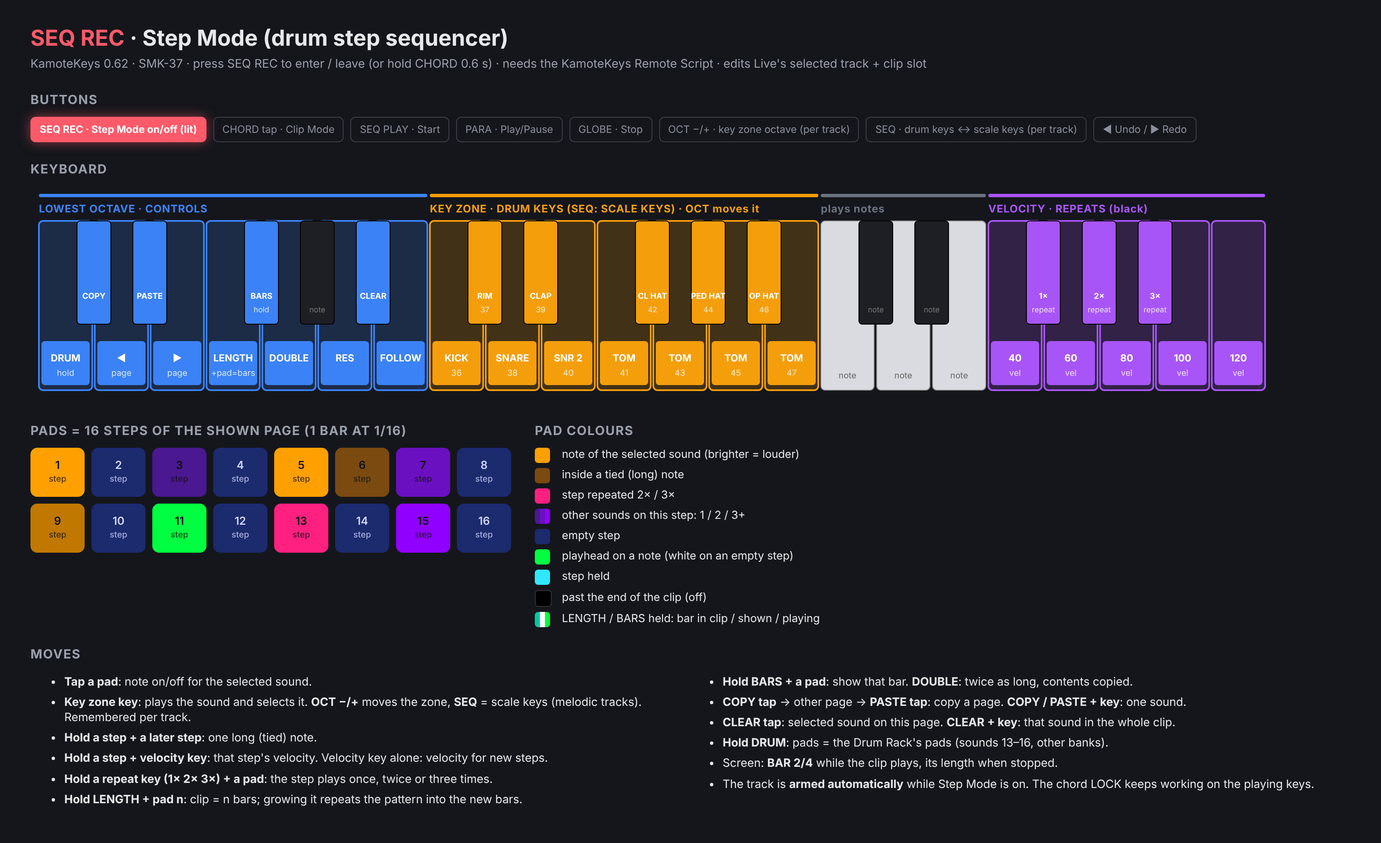
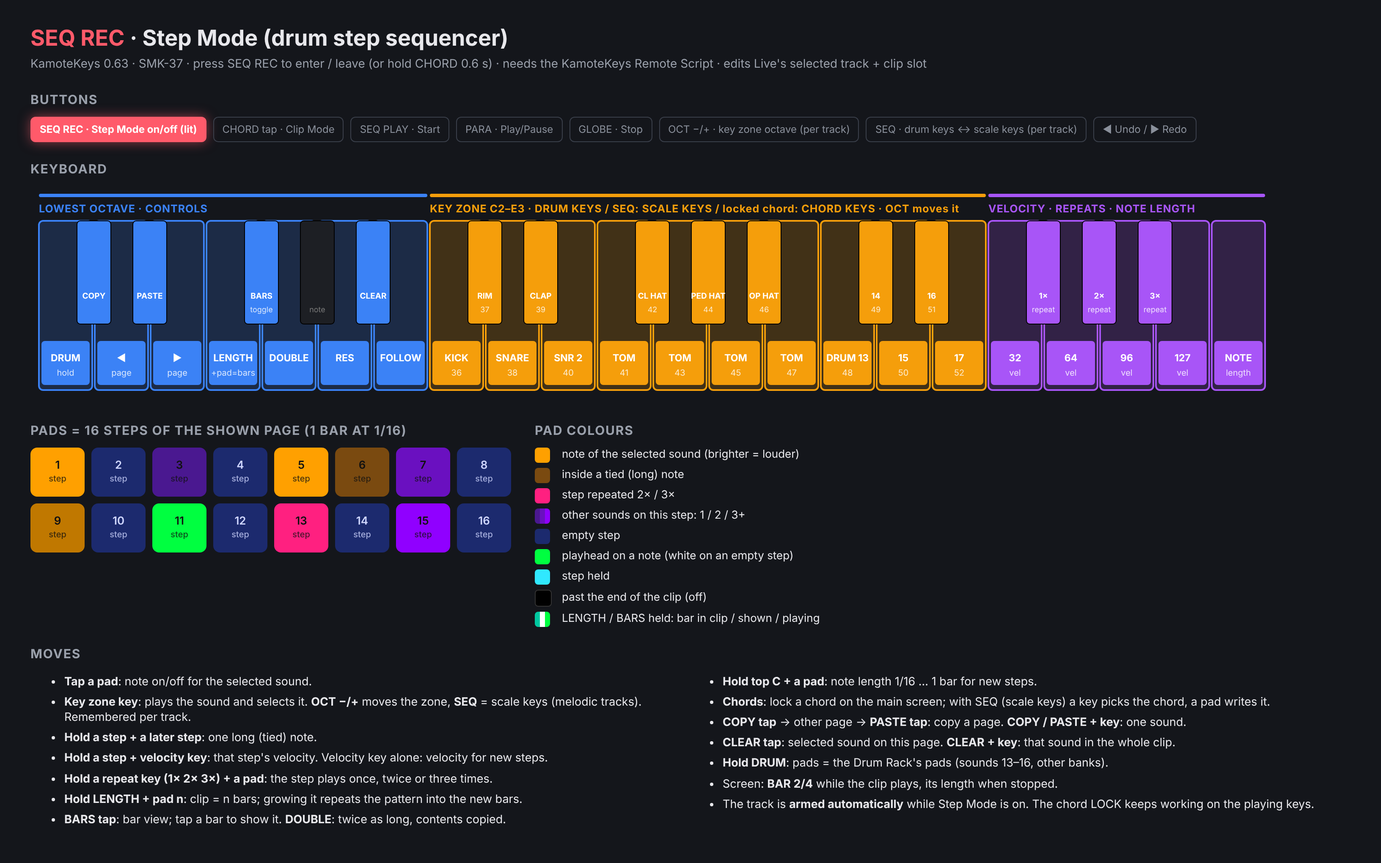
KamoteKeys 0.63: Step Mode chords from a locked chord, note length key, velocity 32/64/96/127, key zone C2-E3, BARS toggle
Claude-Session: https://claude.ai/code/session_014nKCDtX9z2HT4cnrjTFgfW

diff --git a/remote_script/KamoteKeys/StepSequencer.py b/remote_script/KamoteKeys/StepSequencer.py
@@ -35,8 +35,8 @@ PAD_NOTE = 36
 PADS = 16
 (F_DRUM, F_PAGE_PREV, F_PAGE_NEXT, F_LENGTH, F_DOUBLE, F_RESOLUTION, F_FOLLOW, F_COPY, F_CLEAR,
  F_VEL_1, F_VEL_2, F_VEL_3, F_VEL_4, F_VEL_5, F_VEL_6, F_VEL_DOWN, F_VEL_UP, F_PASTE,
- F_BARS, F_OCT_DOWN, F_OCT_UP, F_SCALE_KEYS, F_REPEAT_1, F_REPEAT_2, F_REPEAT_3) = range(60, 85)
-FUNCTION_NOTES = tuple(range(60, 85))
+ F_BARS, F_OCT_DOWN, F_OCT_UP, F_SCALE_KEYS, F_REPEAT_1, F_REPEAT_2, F_REPEAT_3, F_NOTE_LEN) = range(60, 86)
+FUNCTION_NOTES = tuple(range(60, 86))
 REPEATS = {F_REPEAT_1: 1, F_REPEAT_2: 2, F_REPEAT_3: 3}
 SELECT_CHANNEL = 12                    # device -> host: channel 13 note = key-zone pitch picked (0.62)
 CODE_CC, PAGE_CC, PAGES_CC, RES_CC, FOLLOW_CC, STATUS_CC, DRUMVIEW_CC, ACTIVE_CC = 80, 96, 97, 98, 99, 100, 101, 102
@@ -49,12 +49,13 @@ C_TIE, C_PLAY_EMPTY, C_PLAY_NOTE, C_HELD = 9, 10, 11, 12
 C_DRUM_EMPTY, C_DRUM_LOADED, C_DRUM_ACTIVE, C_DRUM_ACTIVE_EMPTY = 20, 21, 22, 23
 C_GHOST_1, C_RATCHET = 13, 16          # 13..15: other sounds on an empty step (1, 2, 3+)
 C_BAR_IN, C_BAR_OUT, C_BAR_SHOWN, C_BAR_PLAY = 17, 18, 19, 24
+C_LEN_ON = 25
 # Status codes (CC 100).
 S_OK, S_NO_DRUM_RACK, S_NO_MIDI_TRACK, S_NO_CLIP = 0, 1, 2, 3
 
 # Step resolutions in beats; the same resolution is used for every page.
 RESOLUTIONS = ((0.25, '1/16'), (0.5, '1/8'), (0.125, '1/32'), (1.0 / 6.0, '1/16T'), (1.0 / 3.0, '1/8T'))
-VELOCITIES = (40, 60, 80, 100, 120)   # the five velocity keys (0.62)
+VELOCITIES = (32, 64, 96, 127)        # the four velocity keys (0.63)
 PREF_KEY = 'kamotekeys_step'          # per-track key-zone octave and layout
 EPS = 1e-4
 MAX_LENGTH = 4.0 * 64                  # beats: 64 bars of 4/4 is plenty
@@ -93,6 +94,10 @@ class StepSequencer(object):
         self._used = set()             # COPY / PASTE / CLEAR held and already used with another key
         self._clipboard = None         # (lane pitch or None, [(pitch, offset, duration, velocity, mute)])
         self._prefs = {}               # track -> [key-zone octave, scale keys] (0.62)
+        self._chord = []               # pitches written by a step (a locked chord), root first (0.63)
+        self._zone_held, self._zone_pick = set(), []   # key-zone notes arriving as one pick
+        self._note_len = 1             # new notes: sixteenths of a bar (0.63)
+        self._bars_view = False        # BARS toggled on: pads show the bars
 
     # ------------------------------------------------------------ helpers
     def _log(self, text):
@@ -398,7 +403,9 @@ class StepSequencer(object):
     def _codes(self):
         if self._fn and F_DRUM in self._fn:
             return self._drum_codes()
-        if self._fn and (F_LENGTH in self._fn or F_BARS in self._fn):
+        if self._fn and F_NOTE_LEN in self._fn:
+            return [C_LEN_ON if i < self._note_len else C_BAR_OUT for i in range(PADS)]
+        if self._bars_view or (self._fn and F_LENGTH in self._fn):
             return self._bar_codes()
         codes = []
         playhead = self._playhead_step()
@@ -517,8 +524,14 @@ class StepSequencer(object):
                 self._set_bars(index + 1)                       # 0.62: LENGTH + pad n = n bars
                 self.update()
                 return
-            if F_BARS in self._fn:
-                self._show_bar(index + 1)
+            if F_NOTE_LEN in self._fn:
+                self._note_len = index + 1                      # 0.63: note length in sixteenths of a bar
+                self._say('note length %d/16' % self._note_len)
+                self.update()
+                return
+            if self._bars_view:
+                self._show_bar(index + 1)                       # pick a bar, back to the pattern
+                self._bars_view = False
                 self.update()
                 return
             repeat = [REPEATS[f] for f in self._fn if f in REPEATS]
@@ -576,6 +589,8 @@ class StepSequencer(object):
             pref[0] = max(-3, min(4, pref[0] + (1 if note == F_OCT_UP else -1)))
             self._save_prefs()
             self._say('key octave %+d' % pref[0])
+        elif note == F_BARS:
+            self._bars_view = not self._bars_view           # 0.63: tap toggles the bar view
         elif note == F_SCALE_KEYS:
             pref = self._pref()
             pref[1] = not pref[1]
@@ -615,9 +630,10 @@ class StepSequencer(object):
         try:
             self._read_notes()
             if self._notes_at(t):
-                self._clip.remove_notes_extended(self._pitch, 1, t - EPS, self._step())
+                for pitch in self._pitches():
+                    self._clip.remove_notes_extended(pitch, 1, t - EPS, self._step())
             else:
-                self._clip.add_new_notes((self._spec(self._pitch, t, self._step(), self._velocity),))
+                self._clip.add_new_notes(tuple(self._spec(p, t, self._duration(), self._velocity) for p in self._pitches()))
         except Exception as error:
             self._log('cannot change step %d: %s' % (index + 1, error))
         self._dirty = True
@@ -658,7 +674,7 @@ class StepSequencer(object):
                         n.velocity = velocity
                     self._clip.apply_note_modifications(notes)
                 else:
-                    self._clip.add_new_notes((self._spec(self._pitch, t, self._step(), velocity),))
+                    self._clip.add_new_notes(tuple(self._spec(p, t, self._duration(), velocity) for p in self._pitches()))
                 self._consumed.add(index)
             self._say('velocity %d' % velocity)
         except Exception as error:
@@ -739,7 +755,21 @@ class StepSequencer(object):
             self._page = max(0, min(limit, self._page + delta))
             self._say('page %d/%d' % (self._page + 1, self._pages()))
 
-    def select_pitch(self, note):
+    def key_zone(self, note, pressed):
+        """Channel 13 notes: one pick (a pitch, or a locked chord sent as all
+        note-ons, then all note-offs)."""
+        if pressed:
+            if not self._zone_held:
+                self._zone_pick = []
+            self._zone_held.add(note)
+            self._zone_pick.append(note)
+            return
+        self._zone_held.discard(note)
+        if not self._zone_held and self._zone_pick:
+            pick, self._zone_pick = sorted(set(self._zone_pick)), []
+            self.select_pitch(pick[0], pick)
+
+    def select_pitch(self, note, chord=None):
         """A key-zone key (drum key or scale key) was pressed: like a drum pad
         on Move, it selects that pitch for the steps (the keyboard plays it).
         With CLEAR / COPY / PASTE held it acts on that pitch instead."""
@@ -757,7 +787,16 @@ class StepSequencer(object):
             self._paste(note)
         else:
             self._select_drum(note)
+            self._chord = list(chord) if chord and len(chord) > 1 else []
+            if self._chord:
+                self._say('chord %s' % ' '.join(str(n) for n in self._chord))
         self.update()
+
+    def _pitches(self):
+        return self._chord if self._chord and self._chord[0] == self._pitch else [self._pitch]
+
+    def _duration(self):
+        return self._note_len * self._bar() / 16.0
 
     # Copy / paste (0.61, like Move's Copy button): COPY copies the shown page
     # (all drums) or, with a drum key, that drum's lane on the page; PASTE

diff --git a/tests/host/test_features.c b/tests/host/test_features.c
@@ -42,11 +42,12 @@ void test_step_mode(void)
           "C = DRUM (hold), D = page prev");
     /* 0.62 key map: velocity = the last five white keys, repeats = top F# G# A#,
      * BARS = lowest F#; the lowest G# and third-octave C still play. */
-    host_clear(); key(29, 100); key(29, 0); key(36, 100); key(36, 0); key(30, 100); key(30, 0); key(34, 100); key(34, 0);
-    CHECK(out_count(USB, 0x9D, KK_STEP_VEL_1) == 1 && out_count(USB, 0x9D, KK_STEP_VEL_5) == 1 &&
-          out_count(USB, 0x9D, KK_STEP_REPEAT_1) == 1 && out_count(USB, 0x9D, KK_STEP_REPEAT_3) == 1, "F = vel 1, top C = vel 5, F# / A# = repeat 1 / 3");
-    host_clear(); key(6, 100); key(6, 0); key(8, 100); key(8, 0); key(24, 100); key(24, 0);
-    CHECK(out_count(USB, 0x9D, KK_STEP_BARS) == 1 && out_count(USB, 0x90, 56) == 1 && out_count(USB, 0x90, 72) == 1, "F# = BARS, G# and C4 play");
+    host_clear(); key(29, 100); key(29, 0); key(35, 100); key(35, 0); key(36, 100); key(36, 0); key(30, 100); key(30, 0); key(34, 100); key(34, 0);
+    CHECK(out_count(USB, 0x9D, KK_STEP_VEL_1) == 1 && out_count(USB, 0x9D, KK_STEP_VEL_4) == 1 && out_count(USB, 0x9D, KK_STEP_NOTE_LEN) == 1 &&
+          out_count(USB, 0x9D, KK_STEP_REPEAT_1) == 1 && out_count(USB, 0x9D, KK_STEP_REPEAT_3) == 1, "F..B = vel 1..4, top C = note length, F# / A# = repeat 1 / 3");
+    host_clear(); key(6, 100); key(6, 0); key(24, 100); key(24, 0); key(28, 100); key(28, 0);
+    CHECK(out_count(USB, 0x9D, KK_STEP_BARS) == 1 && out_count(USB, 0x99, 48) == 1 && out_count(USB, 0x99, 52) == 1,
+          "F# = BARS; the key zone runs up to E3 (C3 = 48, E3 = 52)");
     host_clear(); key(1, 100); key(1, 0); key(3, 100); key(3, 0); key(10, 100); key(10, 0);
     CHECK(out_count(USB, 0x9D, KK_STEP_COPY) == 1 && out_count(USB, 0x9D, KK_STEP_PASTE) == 1 && out_count(USB, 0x9D, KK_STEP_CLEAR) == 1,
           "C# = COPY, D# = PASTE, A# = CLEAR");
@@ -70,6 +71,16 @@ void test_step_mode(void)
     int scale_note = kk_key_scale_note(14, kk.octave, &kk.scale);
     CHECK(scale_note > 0 && out_count(USB, 0x90, scale_note) == 1 && out_count(USB, 0x9C, scale_note) == 1 && kk_led_button(KK_BTN_SEQ) == 2,
           "scale keys: D plays its scale note on ch 1 and selects it, SEQ lit");
+    /* 0.63: a locked chord + scale keys: a key picks the whole chord. */
+    host_in(0xBD, KK_STEP_KEYS_CC, 1);
+    kk.chord_lock = 1; kk.latched_mods = kk.chord_mods = KK_MOD_MIN;
+    host_clear(); key(12, 100); key(12, 0);
+    {
+        int root = kk_key_scale_note(12, kk.octave, &kk.scale);
+        CHECK(out_count(USB, 0x90, -1) == 3 && out_count(USB, 0x9C, -1) == 3 && out_count(USB, 0x9C, root) == 1 && host_out[0].b[0] == 0x9C &&
+              host_out[2].b[0] == 0x9C, "locked MIN chord: 3 notes play, ch 13 gets all 3 note-ons first (root %d)", root);
+    }
+    kk.chord_lock = 0; kk.latched_mods = kk.chord_mods = 0;
     host_in(0xBD, KK_STEP_KEYS_CC, 0);
     host_clear(); host_in(0xBF, KK_CLIP_HELLO_CC, 1);
     host_in(0xBD, KK_STEP_CODE_CC + 0, KK_STEPC_NOTE_6); host_in(0xBD, KK_STEP_CODE_CC + 1, KK_STEPC_EMPTY);

diff --git a/tests/remote_script/test_kamotkeys_script.py b/tests/remote_script/test_kamotkeys_script.py
@@ -141,7 +141,7 @@ class T(unittest.TestCase):
         notes = sorted(b.identifier for b in registry if b.msg_type == 0 and b.channel == 15)
         self.assertEqual(notes, list(range(36, 100)))     # launch, overdub, delete, select
         steps = sorted(b.identifier for b in registry if b.msg_type == 0 and b.channel == 13)
-        self.assertEqual(steps, list(range(36, 52)) + list(range(60, 85)))   # step pads, step functions
+        self.assertEqual(steps, list(range(36, 52)) + list(range(60, 86)))   # step pads, step functions
         self.assertEqual(len([b for b in registry if b.channel == 12]), 128)   # key-zone pitches (ch 13)
         self.assertTrue(all(b.channel in (12, 13, 14, 15) for b in registry))
         self.assertEqual(deliver((0x90, 60, 100)), 0)             # channel 1 notes pass to tracks
@@ -461,6 +461,19 @@ class StepTest(unittest.TestCase):
         self.assertEqual(self.info(96), 1); self.assertEqual(self.codes().get(2), 10)        # followed, playhead
         self.assertEqual(self.info(105), 2)                                                   # playing bar 2
 
+    def test_chord_pick_note_length_and_bar_toggle(self):
+        self.mode(True)
+        for n in (48, 51, 55): deliver((0x9C, n, 127))                     # a locked Cm chord: all on ...
+        for n in (48, 51, 55): deliver((0x8C, n, 0))                       # ... then all off
+        self.s.update_display(); self.assertEqual(self.info(102), 48)
+        self.fn(85); self.s.update_display(); self.assertEqual(self.codes()[0], 25)   # note length view
+        self.pad(3); self.pad(3, False); self.fn(85, False)               # 4/16 = a quarter bar
+        self.tap(0)
+        self.assertEqual(sorted((n.pitch, n.duration) for n in self.clip.notes), [(48, 1.0), (51, 1.0), (55, 1.0)])
+        self.tap(0); self.assertEqual(self.clip.notes, [])                  # the whole chord comes off
+        self.press(78); self.s.update_display(); self.assertEqual(self.codes()[0], 19)   # BARS tap: bar view stays
+        self.tap(0); self.s.update_display(); self.assertIn(self.codes()[0], (1, 13, 14, 15))   # bar picked: pattern again
+
     def test_bars_key_ghosts_repeats_and_key_prefs(self):
         self.mode(True)
         self.fn(63); self.pad(3); self.pad(3, False); self.fn(63, False)  # 4 bars
@@ -488,7 +501,7 @@ class StepTest(unittest.TestCase):
     def test_velocity_tie_copy_clear(self):
         self.mode(True); self.tap(0)
         self.pad(0); self.press(69); self.pad(0, False)                   # hold step + velocity 1
-        self.assertEqual([n.velocity for n in self.clip.notes], [40])
+        self.assertEqual([n.velocity for n in self.clip.notes], [32])
         self.pad(4); self.pad(7); self.pad(7, False); self.pad(4, False)  # tie steps 5-8
         tie = [n for n in self.clip.notes if n.start_time == 1.0][0]; self.assertEqual(tie.duration, 1.0)
         self.s.update_display(); self.assertEqual(self.codes().get(5), 9)   # inside the long note

diff --git a/core/kamotkeys/kk_config.h b/core/kamotkeys/kk_config.h
@@ -12,7 +12,7 @@
 #define KK_CONFIG_H
 
 #define KAMOTKEYS_NAME "KamoteKeys"
-#define KAMOTKEYS_VERSION "0.62" KK_DEVICE_SUFFIX
+#define KAMOTKEYS_VERSION "0.63" KK_DEVICE_SUFFIX
 #define KAMOTKEYS_TITLE KAMOTKEYS_NAME " " KAMOTKEYS_VERSION
 
 /* MIDI channels, zero based (channel 1 = 0). */
@@ -58,8 +58,8 @@ enum {
  *  device -> host: Note 36+pad = step pad 1..16 (press / release)
  *                  Note 60.. = function keys (KK_STEP_*; press / release)
  *                  CC 127 = 127 entering Step Mode (send everything), 0 leaving
- *                  Channel 13 note = key-zone key pressed: select that pitch
- *                  (0.62; on + off at once; the sound goes out on ch 10 / 1)
+ *                  Channel 13 notes = key-zone key pressed: select that pitch, or
+ *                  a locked chord (0.63: all note-ons, then all note-offs)
  *  host -> device: CC 80+pad = pad colour code (KK_STEPC_*)
  *                  CC 96 page, 97 page count, 98 resolution, 99 follow,
  *                  100 status, 101 drum view, 102 active pitch,
@@ -73,7 +73,7 @@ enum {
     KK_STEP_VEL_1, KK_STEP_VEL_2, KK_STEP_VEL_3, KK_STEP_VEL_4, KK_STEP_VEL_5, KK_STEP_VEL_6,
     KK_STEP_VEL_DOWN, KK_STEP_VEL_UP, KK_STEP_PASTE,
     KK_STEP_BARS, KK_STEP_OCT_DOWN, KK_STEP_OCT_UP, KK_STEP_SCALE_KEYS,
-    KK_STEP_REPEAT_1, KK_STEP_REPEAT_2, KK_STEP_REPEAT_3,
+    KK_STEP_REPEAT_1, KK_STEP_REPEAT_2, KK_STEP_REPEAT_3, KK_STEP_NOTE_LEN,
     KK_STEP_CODE_CC = 80, KK_STEP_PAGE_CC = 96, KK_STEP_PAGES_CC = 97, KK_STEP_RES_CC = 98,
     KK_STEP_FOLLOW_CC = 99, KK_STEP_STATUS_CC = 100, KK_STEP_DRUMVIEW_CC = 101, KK_STEP_ACTIVE_CC = 102,
     KK_STEP_KEYOCT_CC = 103, KK_STEP_KEYS_CC = 104, KK_STEP_BAR_CC = 105, KK_STEP_BARS_CC = 106,
@@ -88,6 +88,7 @@ enum {
     KK_STEPC_GHOST_1 = 13, KK_STEPC_GHOST_2 = 14, KK_STEPC_GHOST_3 = 15,   /* other sounds on an empty step */
     KK_STEPC_RATCHET = 16,                                                /* step repeated 2x / 3x */
     KK_STEPC_BAR_IN = 17, KK_STEPC_BAR_OUT = 18, KK_STEPC_BAR_SHOWN = 19, KK_STEPC_BAR_PLAY = 24,
+    KK_STEPC_LEN_ON = 25,                                                 /* note length view: inside the length */
     KK_STEPC_DRUM_EMPTY = 20, KK_STEPC_DRUM_LOADED = 21, KK_STEPC_DRUM_ACTIVE = 22, KK_STEPC_DRUM_ACTIVE_EMPTY = 23
 };
 

diff --git a/devices/smk37/app/kamotkeys/kk_device.h b/devices/smk37/app/kamotkeys/kk_device.h
@@ -58,11 +58,11 @@ static inline int kk_step_key_function(unsigned key)
     case 3: return KK_STEP_PASTE;       /* D# tap: paste onto the page; + drum key: onto that drum */
     case 6: return KK_STEP_BARS;        /* F# hold: pads = bars, tap one to show it */
     case 10: return KK_STEP_CLEAR;      /* A# tap: clear the page; + drum key: clear that drum */
-    case 29: return KK_STEP_VEL_1;      /* 0.62: the last five white keys F G A B C = velocity */
+    case 29: return KK_STEP_VEL_1;      /* 0.63: top F G A B = velocity 32 / 64 / 96 / 127 */
     case 31: return KK_STEP_VEL_2;
     case 33: return KK_STEP_VEL_3;
     case 35: return KK_STEP_VEL_4;
-    case 36: return KK_STEP_VEL_5;
+    case 36: return KK_STEP_NOTE_LEN;   /* top C hold: pads = note length (1-16 sixteenths of a bar) */
     case 30: return KK_STEP_REPEAT_1;   /* top F# G# A#: hold + a pad = 1 / 2 / 3 hits per step */
     case 32: return KK_STEP_REPEAT_2;
     case 34: return KK_STEP_REPEAT_3;
@@ -73,7 +73,7 @@ static inline int kk_step_key_function(unsigned key)
 /* Step Mode drum keys (0.60, like Move's drum pads): the second octave,
  * C = the first drum of the bank (36 = kick). Each plays its sound and
  * selects it for the steps. -1 = not a drum key. */
-static inline int kk_step_drum_key(unsigned key) { return key >= 12 && key < 24 ? (int)key - 12 : -1; }
+static inline int kk_step_drum_key(unsigned key) { return key >= 12 && key <= 28 ? (int)key - 12 : -1; }   /* 0.63: C2..E3 */
 
 /* 16 RGB pads (ripple lights, light shows). */
 #define KK_HAS_RGB_PADS 1

diff --git a/core/kamotkeys/kk_midi.c b/core/kamotkeys/kk_midi.c
@@ -82,6 +82,18 @@ void kk_midi_tap(unsigned channel, unsigned note)
     const uint8_t off[3] = {(uint8_t)(0x80 | (channel & 15)), (uint8_t)(note & 127), 0};
     out(on, 3, kk_midi_port_mask(), 0); out(off, 3, kk_midi_port_mask(), 0);
 }
+/* Several short notes as one group (all on, then all off): a chord pick. */
+void kk_midi_tap_set(unsigned channel, const uint8_t *notes, unsigned count)
+{
+    for (unsigned i = 0; i < count; ++i) {
+        const uint8_t on[3] = {(uint8_t)(0x90 | (channel & 15)), (uint8_t)(notes[i] & 127), 127};
+        out(on, 3, kk_midi_port_mask(), 0);
+    }
+    for (unsigned i = 0; i < count; ++i) {
+        const uint8_t off[3] = {(uint8_t)(0x80 | (channel & 15)), (uint8_t)(notes[i] & 127), 0};
+        out(off, 3, kk_midi_port_mask(), 0);
+    }
+}
 void kk_midi_message(const uint8_t *m, size_t n) { out(m, n, kk_midi_port_mask(), 1); }
 void kk_midi_all_off(void)
 {

diff --git a/core/kk_controls.c b/core/kk_controls.c
@@ -131,7 +131,13 @@ static void intent(unsigned id, struct source *s)
         } else {
             note = 36 + 12 * off + i; s->channel = KK_CH_DRUM;
         }
-        if (note >= 0 && note < 128) { s->notes[0] = (uint8_t)note; s->count = 1; }
+        if (note < 0 || note > 127) return;
+        /* 0.63: a locked chord turns melodic keys (scale keys, or any track
+         * without a Drum Rack) into chord keys: the steps get the chord. */
+        if (kk.chord_mods && (kk_midi_step_info(KK_STEP_KEYS_CC) || kk_midi_step_info(KK_STEP_STATUS_CC) == 1)) {
+            s->channel = KK_CH_MELODIC;
+            s->count = (uint8_t)kk_chord_build(note, kk.chord_mods, &kk.scale, s->notes);
+        } else { s->notes[0] = (uint8_t)note; s->count = 1; }
         return;
     }
     if (id < KK_KEYS && kk.mode == KK_MODE_CLIP &&

diff --git a/core/kamotkeys/kk_led.c b/core/kamotkeys/kk_led.c
@@ -75,6 +75,7 @@ static uint32_t step_colour(unsigned pad, unsigned *level)
     case KK_STEPC_BAR_OUT: *level = 40; return 0x606060;                     /* bar view: past the end */
     case KK_STEPC_BAR_SHOWN: *level = LIT; return 0xffffff;                  /* bar view: bar on the pads */
     case KK_STEPC_BAR_PLAY: *level = LIT; return 0x00ff40;                   /* bar view: playing bar */
+    case KK_STEPC_LEN_ON: *level = 700; return 0xffa000;                     /* note length view */
     case KK_STEPC_DRUM_EMPTY: *level = 40; return 0x808080;                  /* Drum Rack pad, no sample */
     case KK_STEPC_DRUM_LOADED: *level = 330; return 0x00d0b0;                /* Drum Rack pad with a sound */
     case KK_STEPC_DRUM_ACTIVE: *level = LIT; return 0xffffff;                /* active drum */

diff --git a/core/kamotkeys/kk_midi.h b/core/kamotkeys/kk_midi.h
@@ -16,6 +16,7 @@ void kk_midi_note_on(unsigned channel, unsigned note, unsigned velocity);
 void kk_midi_note_off(unsigned channel, unsigned note);
 void kk_midi_cc(unsigned channel, unsigned controller, unsigned value);
 void kk_midi_tap(unsigned channel, unsigned note);   /* on + off, computer only */
+void kk_midi_tap_set(unsigned channel, const uint8_t *notes, unsigned count);
 /* Channel voice message to the local synth and the external ports. */
 void kk_midi_message(const uint8_t *message, size_t bytes);
 /* Release everything this engine owns (mode changes, panic, disconnects). */

diff --git a/remote_script/KamoteKeys/KamoteKeys.py b/remote_script/KamoteKeys/KamoteKeys.py
@@ -138,8 +138,7 @@ class KamoteKeys(ControlSurface):
 
     def _step_select_value(self, value, sender):
         self._first_message()
-        if value:
-            self._step.select_pitch(sender.message_identifier())
+        self._step.key_zone(sender.message_identifier(), bool(value))
 
     def _step_mode_value(self, value):
         self._first_message()

diff --git a/docs/ABLETON_REMOTE_SCRIPT.md b/docs/ABLETON_REMOTE_SCRIPT.md
@@ -112,9 +112,10 @@ Colours: see the table below.
 | Keys | Do |
 |---|---|
 | lowest octave, white | DRUM (hold), page ◀, page ▶, LENGTH (hold), DOUBLE, RESOLUTION, FOLLOW |
-| lowest octave, black | C# = COPY, D# = PASTE, F# = BARS (hold), A# = CLEAR; G# plays |
-| second octave = **key zone** | drum keys: C … B = 12 sounds from C1 (kick, rim, snare, clap …); with SEQ: scale keys |
-| top five white keys (F G A B C) | velocity 40 / 60 / 80 / 100 / 120 |
+| lowest octave, black | C# = COPY, D# = PASTE, F# = BARS (tap: bar view on / off), A# = CLEAR |
+| **key zone**: C2 up to E3 (17 keys) | drum keys: 17 sounds from C1 (kick, rim, snare, clap …); with SEQ: scale keys; with a locked chord: chord keys |
+| top F G A B | velocity 32 / 64 / 96 / 127 |
+| top C (hold) | pads = **note length** for new steps, 1–16 sixteenths of a bar (tap a pad) |
 | top three black keys (F# G# A#) | hold + a pad: the step plays 1× / 2× / 3× |
 | OCT − / OCT + | moves the key zone by an octave (remembered per track) |
 | SEQ | key zone = drum keys / **scale keys** (remembered per track; tracks without a Drum Rack start with scale keys) |
@@ -122,7 +123,9 @@ Colours: see the table below.
 - **Key zone**: a key **plays its sound and selects it** for the steps, like tapping a drum pad on Move. With SEQ the white keys play the scale set with Faders 2 / 3 (black keys silent), so melodic tracks can be step-sequenced too. Sounds 13–16 and other Drum Rack banks: hold DRUM and use the pads / page keys.
 - **Other sounds on a step**: an empty step of the selected sound shows a violet tint when other sounds play there, stronger with 2 and 3+ of them.
 - **LENGTH (hold) + pad n** sets the clip to **n bars** (pads show the bars while LENGTH is held). Growing a clip repeats its pattern into the new bars (if they are empty).
-- **BARS (hold F#)**: pads show the clip's bars (teal = in the clip, white = the bar on the pads, green = playing); tap one to show it.
+- **BARS (tap F#)**: pads show the clip's bars (teal = in the clip, white = the bar on the pads, green = playing); tap one to show it and return to the pattern, or tap F# again.
+- **Chords**: lock a chord on the main screen (chord pads + LOCK), enter Step Mode: with scale keys (SEQ) or on a track without a Drum Rack, a key picks that chord (built on the key's note, in the scale) and a pad writes the whole chord, with the note length set on the top C. SEQ switches scale keys on / off without leaving Step Mode.
+- **Note length (hold top C)**: pads 1–16 = 1/16 … 1 bar; new steps (and chords) get that length.
 - **Repeats**: pick a sound, hold the top F# / G# / A# and press a pad: that step plays 1 / 2 / 3 times (pink).
 - **COPY / PASTE** (C# / D#): tap COPY to copy the shown page (all sounds), go to another page and tap PASTE to replace it. **COPY + key** copies just that sound's steps; **PASTE + key** pastes them onto that sound.
 - **CLEAR + key** (A#) deletes every note of that sound in the clip (Move: Delete + pad). A plain **CLEAR tap** clears the selected sound on the shown page.
@@ -142,7 +145,7 @@ Colours: see the table below.
 
 FM-1 keys (white keys = steps): DRUM F#, page G# / A#, LENGTH C#, DOUBLE D#, RESOLUTION F# (2nd), FOLLOW G# (2nd), COPY A# (2nd), CLEAR C# (2nd), velocity down / up D# / F# (top). Tie: hold a step and press a later one (pads; FM-1 white keys).
 
-On the SMK-37 the remaining keys (lowest G#, third-octave C–E) still play notes. The screen also shows NO DRUM RACK (steps then use C1) or SELECT A MIDI TRACK.
+On the SMK-37 the lowest G# still plays a note. The screen also shows NO DRUM RACK (steps then use C1) or SELECT A MIDI TRACK.
 
 **Edge cases:** no Drum Rack → steps still work on C1; the clip or track deleted, the selection or the clip length changed with the mouse → the mode rebinds itself (deferred, never inside a Live notification). Messages go to Live's `Log.txt` as `KamoteKeys step: ...` and to the status bar.
 

diff --git a/README.md b/README.md
@@ -170,7 +170,7 @@ The pad of Live's highlighted slot is **violet** (pulsing if it is playing or re
 
 ### Step Mode (SEQ REC, or hold CHORD)
 
-A step sequencer that writes straight into the selected session clip in Live, laid out like Ableton Move: 16 pads = 16 steps per page; the **second octave = drum keys** (C = kick … B): a key plays its sound and selects it for the steps. **OCT −/+** moves those keys by an octave and **SEQ** turns them into scale keys (for melodic tracks); both are remembered per track. The **lowest octave = controls** (white: DRUM, page ◀ ▶, LENGTH + pad = bars, DOUBLE, RESOLUTION, FOLLOW; black: COPY, PASTE, BARS, CLEAR); the **last five white keys = velocity**, the **top three black keys = 1× / 2× / 3× repeats** (hold + a pad). Other sounds on a step show as a violet tint; the screen shows the bar the clip is playing. The sequenced track is armed while Step Mode is on. Needs the Remote Script; full guide in [docs/ABLETON_REMOTE_SCRIPT.md](docs/ABLETON_REMOTE_SCRIPT.md#step-mode-drum-step-sequencer-058).
+A step sequencer that writes straight into the selected session clip in Live, laid out like Ableton Move: 16 pads = 16 steps per page; the **second octave = drum keys** (C = kick … B): a key plays its sound and selects it for the steps. **OCT −/+** moves those keys by an octave and **SEQ** turns them into scale keys (for melodic tracks); both are remembered per track. The **lowest octave = controls** (white: DRUM, page ◀ ▶, LENGTH + pad = bars, DOUBLE, RESOLUTION, FOLLOW; black: COPY, PASTE, BARS, CLEAR); the key zone runs from C2 to E3; **top F G A B = velocity 32 / 64 / 96 / 127**, **hold the top C** to set the note length on the pads, the **top three black keys = 1× / 2× / 3× repeats** (hold + a pad). A chord locked on the main screen is written into the steps as a chord. Other sounds on a step show as a violet tint; the screen shows the bar the clip is playing. The sequenced track is armed while Step Mode is on. Needs the Remote Script; full guide in [docs/ABLETON_REMOTE_SCRIPT.md](docs/ABLETON_REMOTE_SCRIPT.md#step-mode-drum-step-sequencer-058).
 
 ### Pad Scale Mode (SCALE)
 
